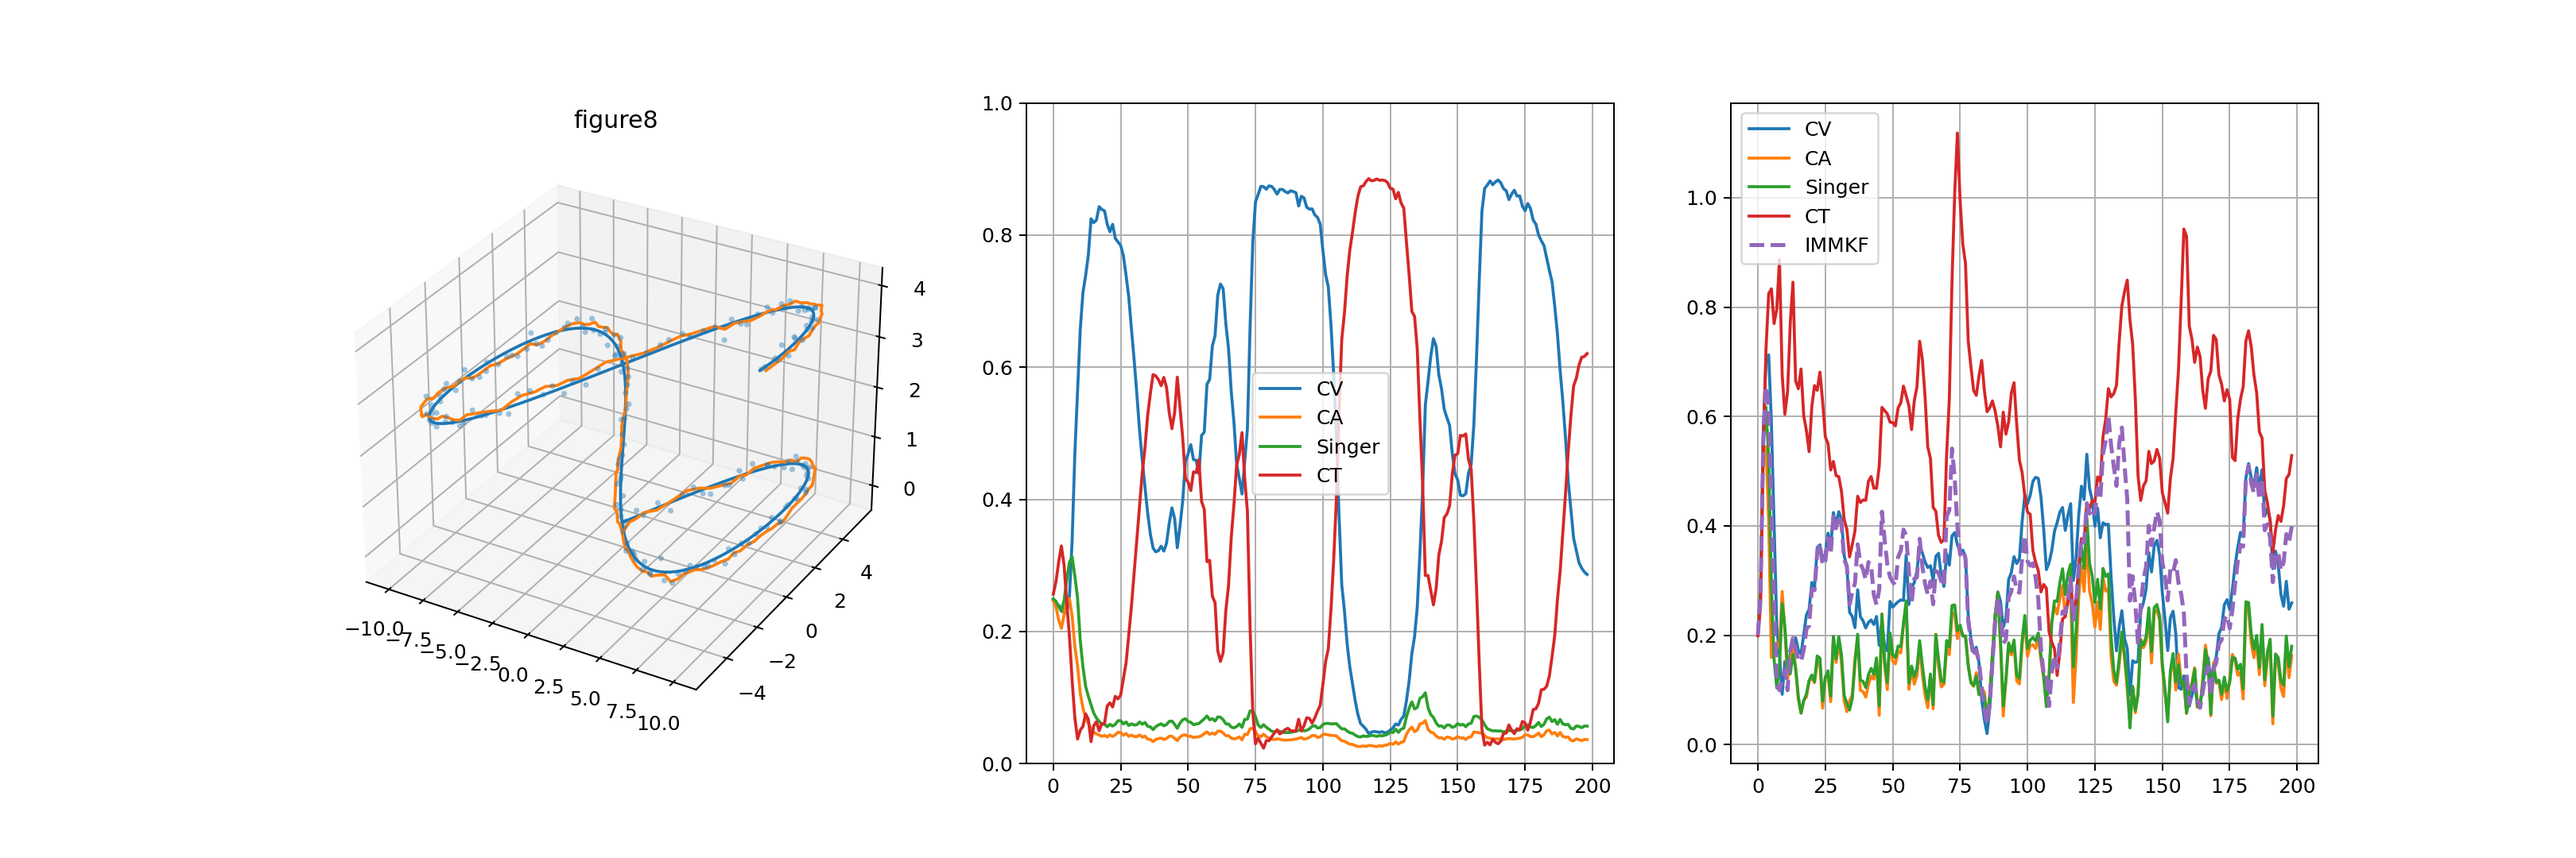
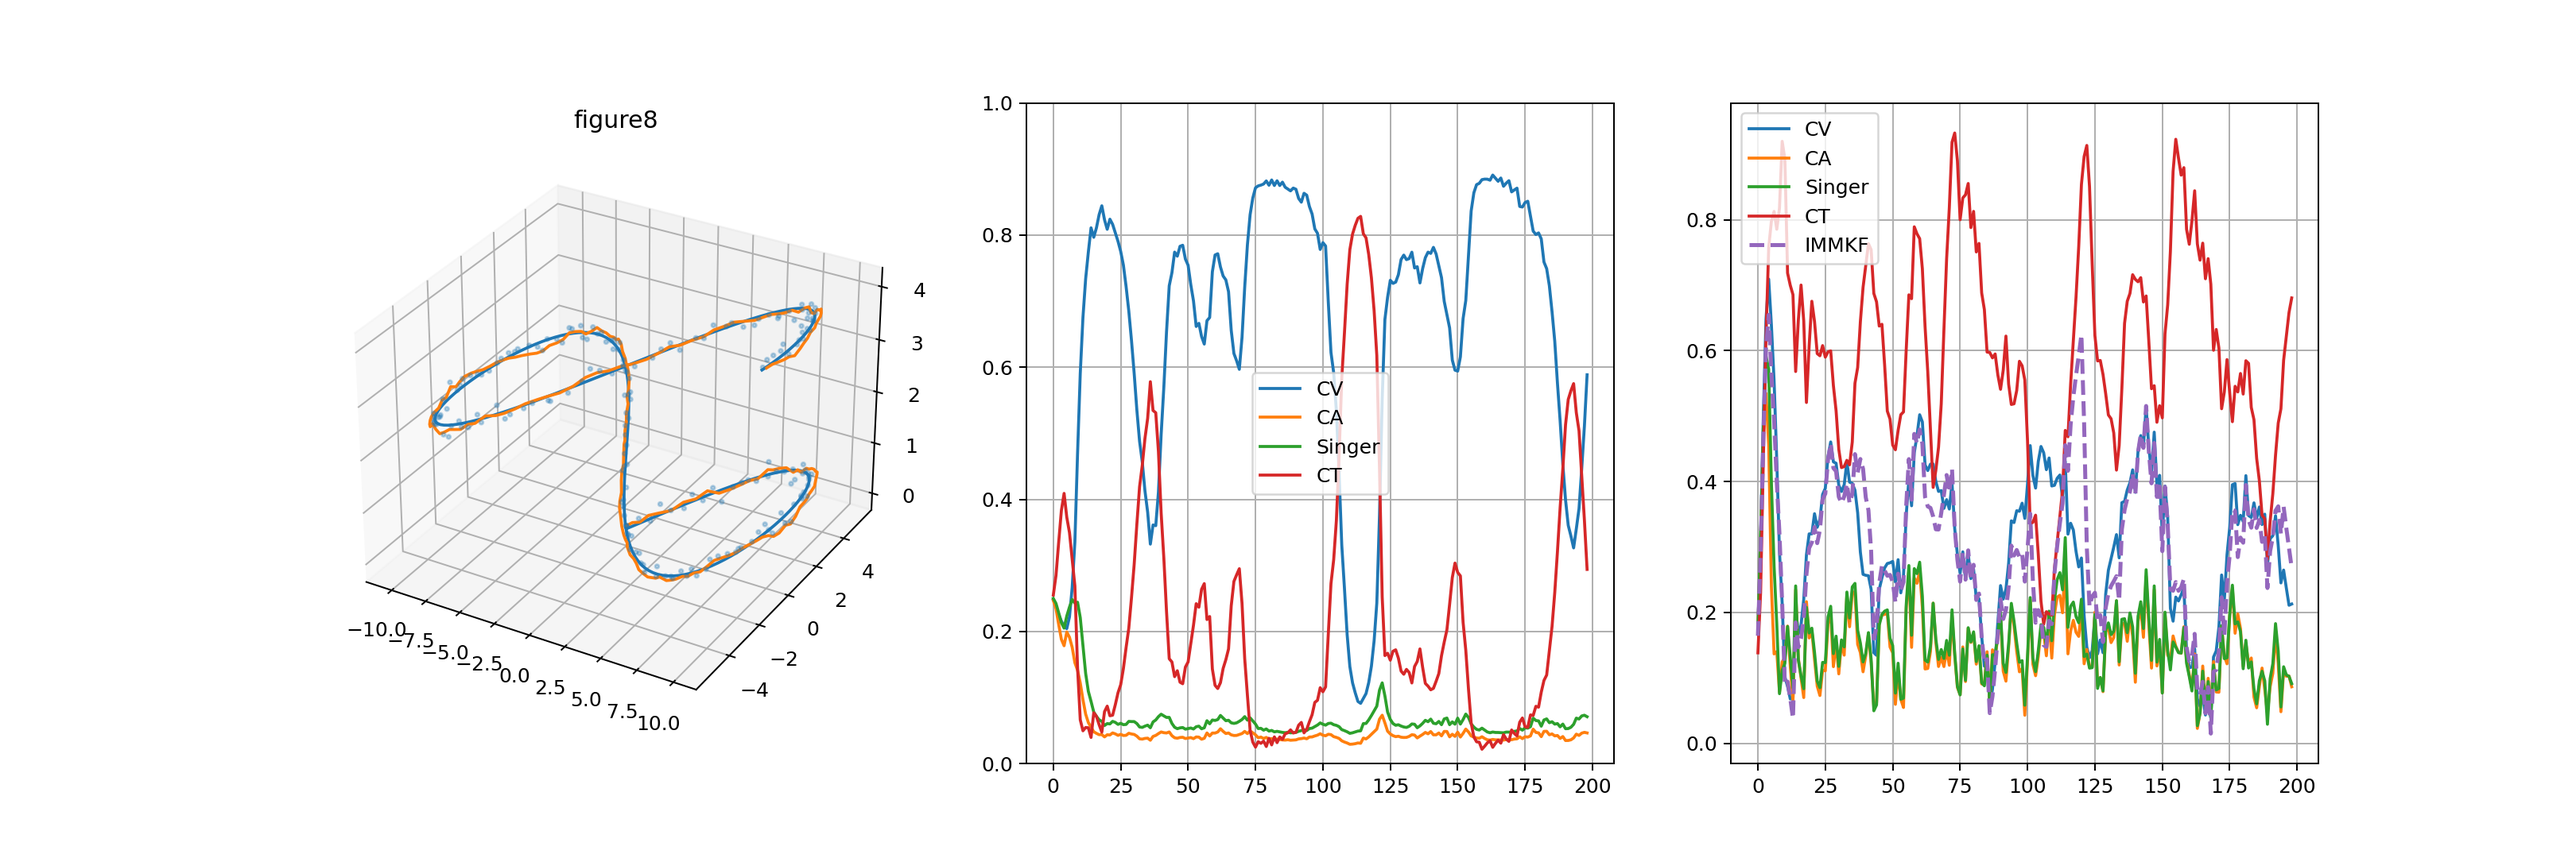
feat(immkf_predictor): 更新RMSE结果文件，优化CT模型以支持三维运动

diff --git a/src/immkf_predictor/scripts/test_immkf_predictor.py b/src/immkf_predictor/scripts/test_immkf_predictor.py
@@ -64,19 +64,38 @@ class SingerModel(KalmanFilter):
 
 class CTModel(KalmanFilter):
     def __init__(self, dt):
-        super().__init__(7, 3)
+        super().__init__(8, 3)
         self.dt = dt
-        for i in range(3): self.H[i, i] = 1
+        for i in range(3):
+            self.H[i, i] = 1
+
     def predict(self):
-        x, y, z, v, yaw, yaw_rate, vz = self.x
+        x, y, z, v, yaw, pitch, yaw_rate, pitch_rate = self.x
         dt = self.dt
-        if abs(yaw_rate) < 1e-4:
-            x += v*np.cos(yaw)*dt; y += v*np.sin(yaw)*dt
-        else:
-            x += v/yaw_rate*(np.sin(yaw+yaw_rate*dt)-np.sin(yaw))
-            y += v/yaw_rate*(-np.cos(yaw+yaw_rate*dt)+np.cos(yaw))
-        z += vz*dt; yaw += yaw_rate*dt
-        self.x = np.array([x, y, z, v, yaw, yaw_rate, vz])
+
+        # 更新角度
+        yaw += yaw_rate * dt
+        pitch += pitch_rate * dt
+
+        # 三维速度分解
+        vx = v * np.cos(pitch) * np.cos(yaw)
+        vy = v * np.cos(pitch) * np.sin(yaw)
+        vz = v * np.sin(pitch)
+
+        # 更新位置
+        x += vx * dt
+        y += vy * dt
+        z += vz * dt
+
+        self.x = np.array([
+            x, y, z,
+            v,
+            yaw,
+            pitch,
+            yaw_rate,
+            pitch_rate
+        ])
+
         self.P = self.P + self.Q
 
 # ================= IMM =================
@@ -166,7 +185,14 @@ def run_single(mode):
     measurements = gt + np.random.randn(*gt.shape) * 0.1
     models = [CVModel(dt), CAModel(dt), SingerModel(dt), CTModel(dt)]
     for m in models: m.x[:3] = measurements[0]
-    models[-1].x[3:] = [1.0, 0.0, np.deg2rad(10), 0.1]
+    # models[-1].x[3:] = [1.0, 0.0, np.deg2rad(10), 0.1]
+    models[-1].x[3:] = [
+        2.0,                # speed
+        0.0,                # yaw
+        0.0,                # pitch
+        np.deg2rad(10),     # yaw_rate
+        np.deg2rad(3)       # pitch_rate
+    ]
     trans = np.array([[0.9,0.03,0.03,0.04],[0.03,0.9,0.03,0.04],[0.03,0.03,0.9,0.04],[0.03,0.03,0.04,0.9]])
     imm = IMMKF(models, trans)
     fused=[]; probs=[]; errs=[]
